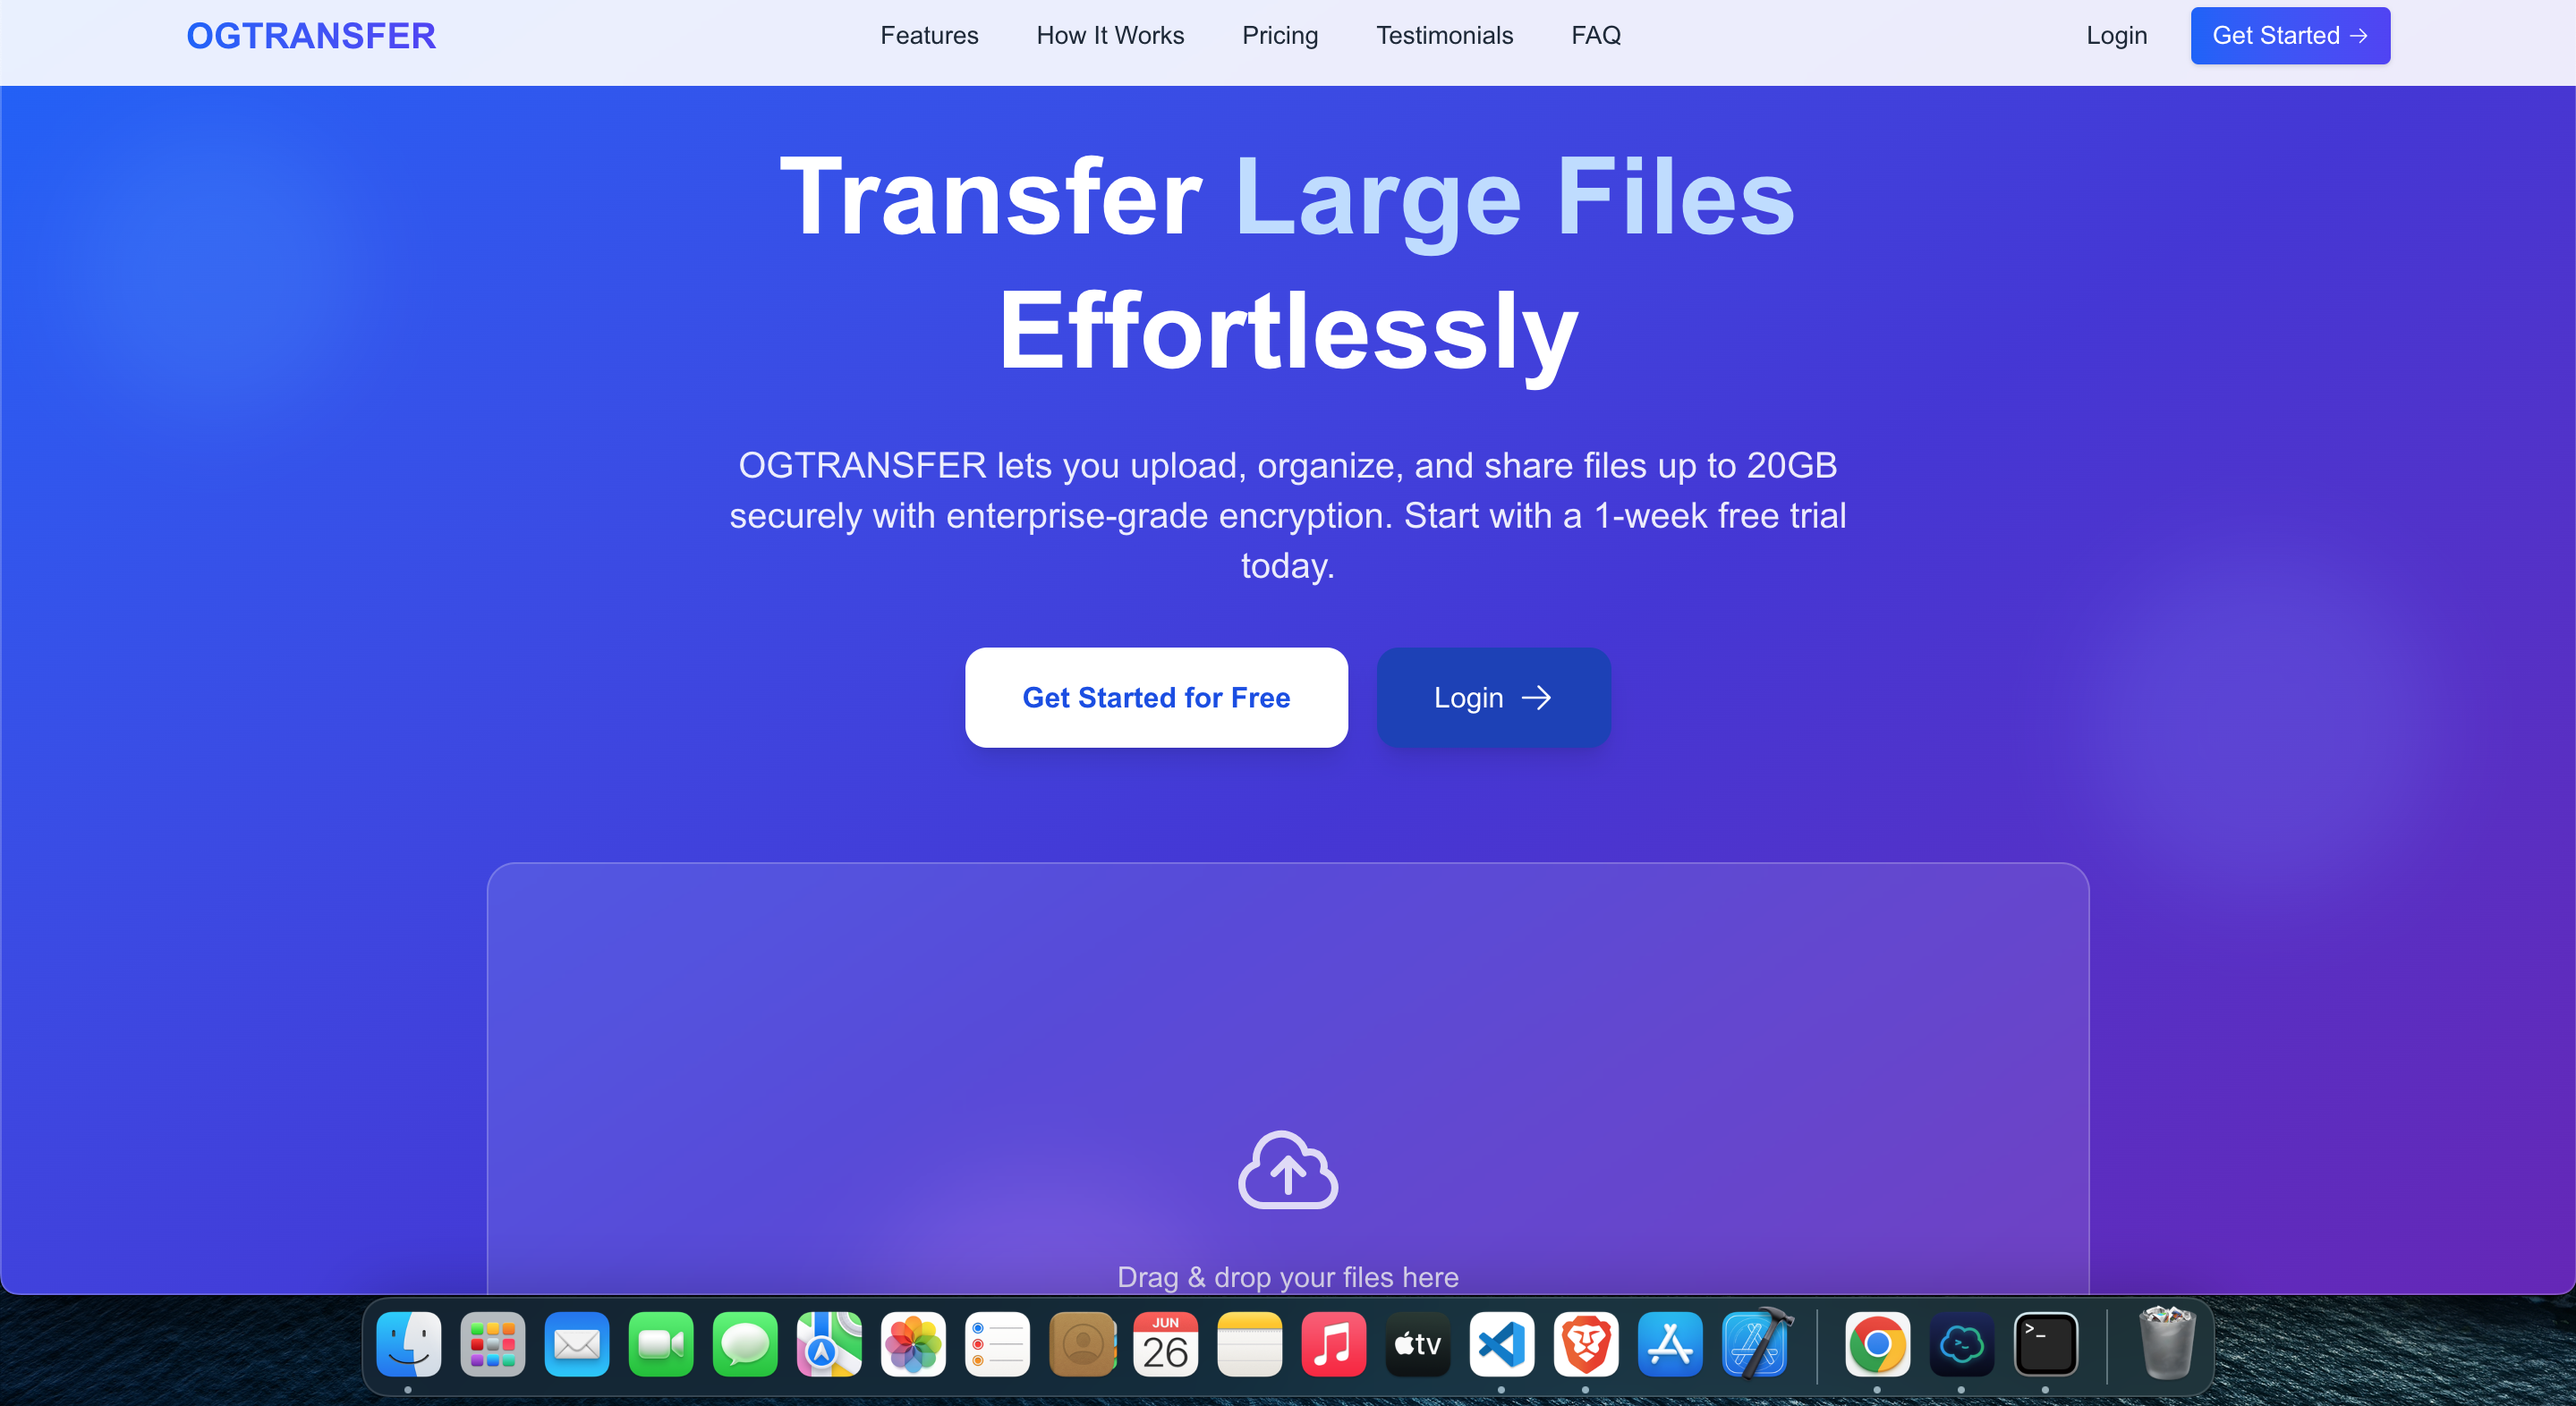
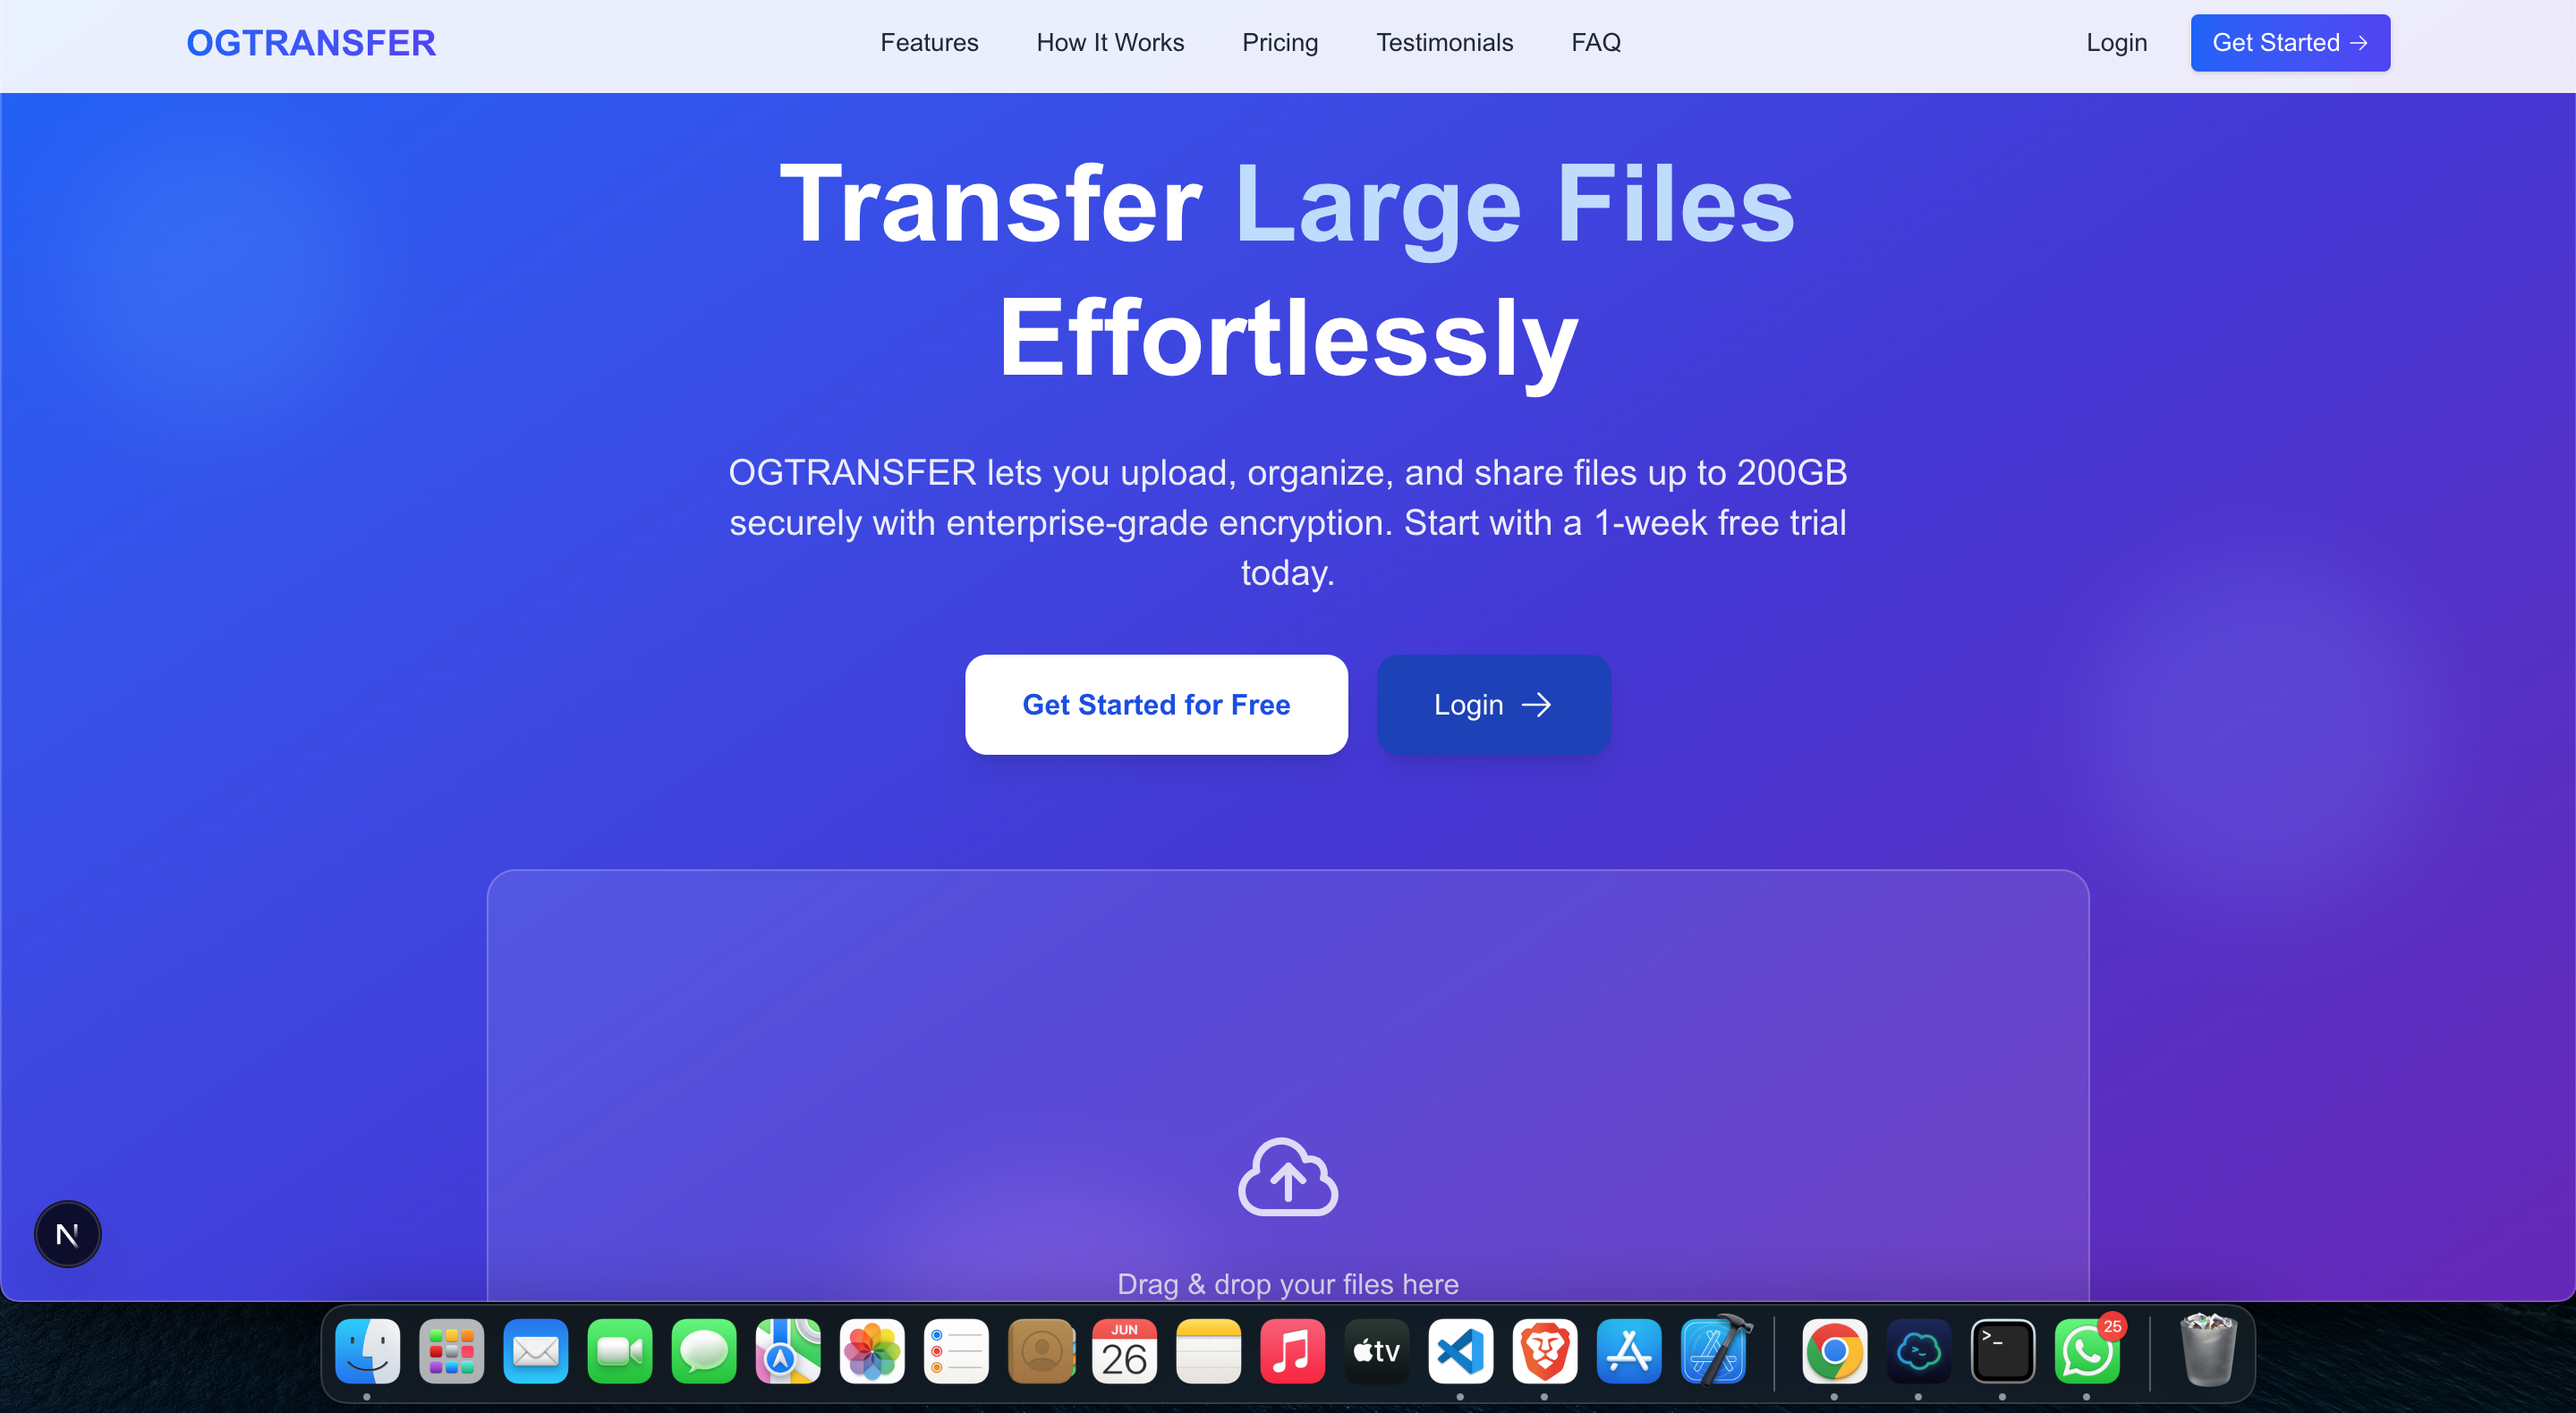
Update OGTRANSFER description to reflect increased file transfer limit

diff --git a/src/components/pages/Projects.js b/src/components/pages/Projects.js
@@ -9,7 +9,7 @@ function Projects() {
       image: "/og.png",
       live_link: "https://ogtransfer.vercel.app",
       description:
-        "OGTRANSFER is a secure file transfer platform that enables users to send large files up to 20GB effortlessly. Built with Next.js, it features encrypted transfers, smart organization tools, and enterprise-grade security with a clean, responsive interface.",
+        "OGTRANSFER is a secure file transfer platform that enables users to send large files up to 200GB effortlessly. Built with Next.js, it features encrypted transfers, smart organization tools, and enterprise-grade security with a clean, responsive interface.",
       more_details: null,
     },
     {
